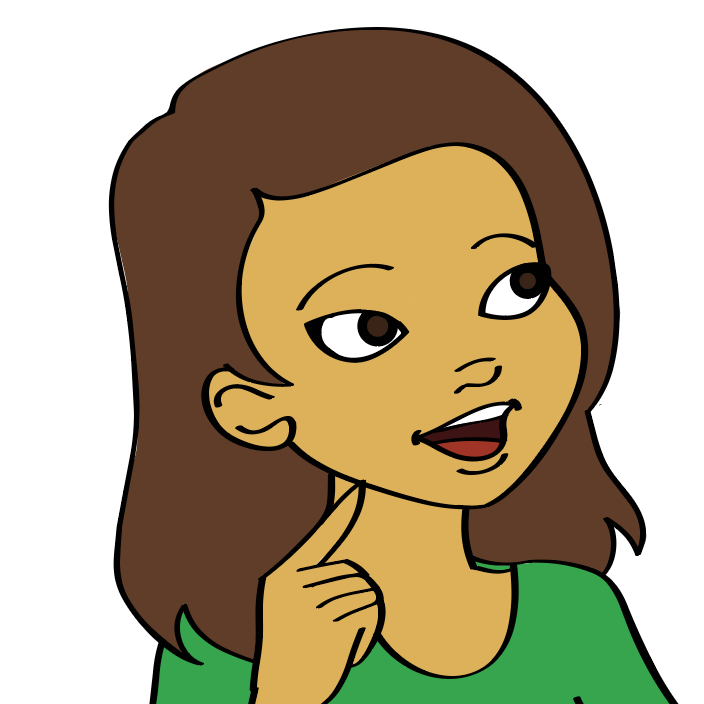
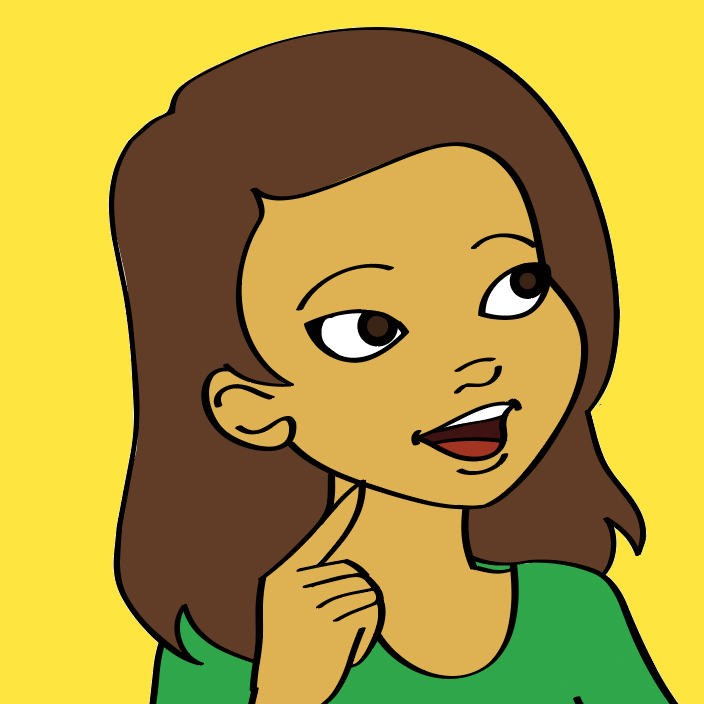
add mock profile pic

diff --git a/src/components/landing/rework/menu-new.tsx b/src/components/landing/rework/menu-new.tsx
@@ -31,6 +31,7 @@ const menuIconMapping = {
 export interface MenuProps {
   data: HeaderData
   auth: AuthenticationPayload
+  isLanding?: boolean
 }
 
 export function MenuNew(props: MenuProps) {
@@ -71,6 +72,7 @@ function MenuInner({
   Tippy,
   source,
   target,
+  isLanding,
 }: MenuProps & {
   Tippy?: typeof import('@tippyjs/react')
   source?: TippyProps['singleton']
@@ -206,7 +208,15 @@ function MenuInner({
 
     function renderNoChildren() {
       if (link.url === '/api/auth/login')
-        return <LogInPopupLink title={link.title} />
+        return isLanding ? (
+          <LogInPopupLink title={link.title} />
+        ) : (
+          <img
+            className="rounded-full w-8 h-8 inline-block -mt-1 ml-3"
+            src="/_assets/img/steff.png"
+            title="Steff"
+          />
+        )
 
       return (
         <Link

diff --git a/src/components/landing/rework/header-new.tsx b/src/components/landing/rework/header-new.tsx
@@ -10,7 +10,7 @@ import { useAuthentication } from '@/auth/use-authentication'
 import { Quickbar } from '@/components/navigation/quickbar'
 import { useInstanceData } from '@/contexts/instance-context'
 
-export function HeaderNew() {
+export function HeaderNew({ isLanding }: { isLanding?: boolean }) {
   const [isOpen, setOpen] = useState(false)
   const auth = useAuthentication()
   const { headerData } = useInstanceData()
@@ -47,7 +47,7 @@ export function HeaderNew() {
           <Quickbar />
         </div>
 
-        <MenuNew data={headerData} auth={auth.current} />
+        <MenuNew data={headerData} auth={auth.current} isLanding={isLanding} />
       </div>
       {isOpen && <MobileMenu data={headerData} auth={auth.current} />}
     </header>

diff --git a/src/components/pages/landing-de.tsx b/src/components/pages/landing-de.tsx
@@ -111,7 +111,7 @@ export function LandingDE({ data }: LandingDEProps) {
       </Head>
       <LandingJsonLd />
       <HeadTags data={{ title: 'Serlo – Die freie Lernplattform' }} />
-      <HeaderNew />
+      <HeaderNew isLanding />
       <main className="text-truegray-700">
         <section className="text-center max-w-3xl mx-auto mt-20 md:mt-15vh font-bold px-2">
           <p className="text-brand font-handwritten text-3xl landing-button-with-wings landing-button-with-wink p-with-wink">

diff --git a/src/components/authentication/log-in-popup-link.tsx b/src/components/authentication/log-in-popup-link.tsx
@@ -24,8 +24,8 @@ export function LogInPopupLink({ title }: { title: string }) {
 
   function onBirdLogin() {
     setTimeout(() => {
-      void router.push('/user/nutzerin')
-    }, 510)
+      void router.push('/user/steff')
+    }, 610)
   }
 
   return (
